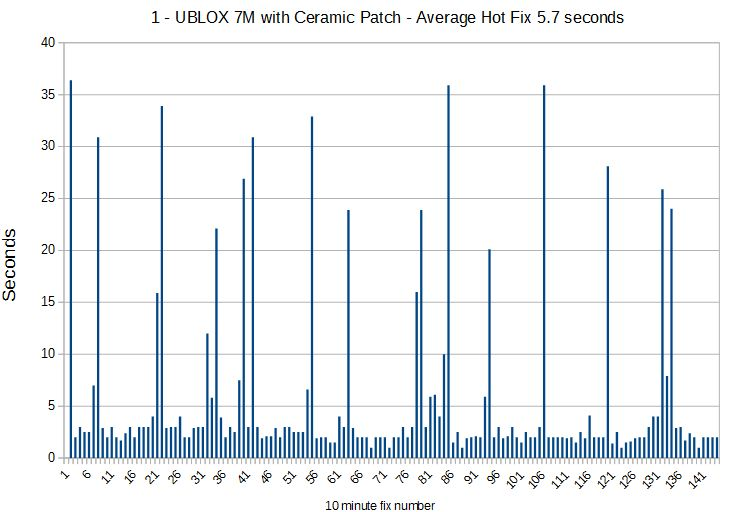
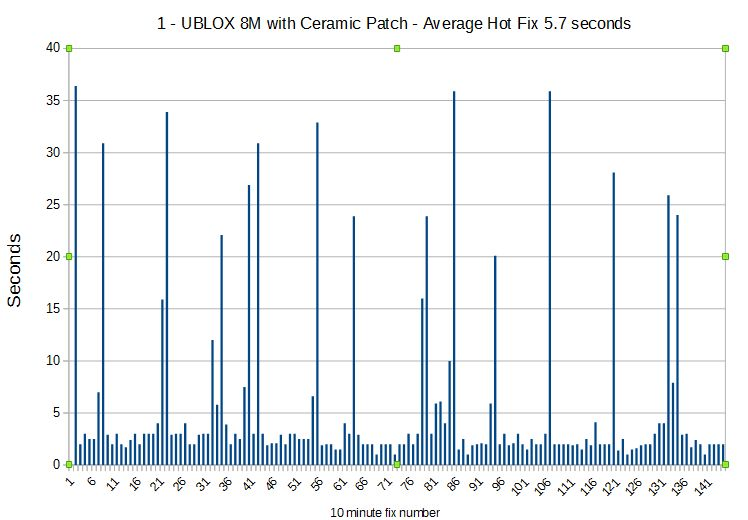
Changes to 8M fix graph

Changed region(s): [[0.0601, 0.0, 0.9918, 0.9688], [0.4208, 0.9688, 0.6011, 1.0], [0.0, 0.4375, 0.0301, 0.5938]]

diff --git a/GPS performance comparisons/Readme.md b/GPS performance comparisons/Readme.md
@@ -178,7 +178,7 @@ Often used on quad copters and similar.
 
 <br><br>
 
-#### 2 - 8 GPS Ceramic Patch
+#### 2 - UBLOX 7 GPS - Ceramic Patch
 * With 25mm ceramic patch antenna. 
 * Fix time from cold, 35 seconds.
 * Current whilst acquiring fix, 50mA to 54mA.
@@ -478,7 +478,7 @@ The Quectel L76 has a built in LNA and so should cope well with a simple wire an
 
 ![alt-text-1](Pictures/13_wire.jpg "Wire Antenna") ![alt-text-2](Pictures/13_patch.jpg "patch Antenna")
 
-
+<br><br>
 
 ### GPS Performance Tests - Summary 
 
@@ -490,13 +490,16 @@ The Quectel L80 is physically a similar GPS to the SAM M8Q, has a very good perf
 
 The bare bones L70 module (i.e. it comes with no antenna) is worthy of note, it's the same size and pin layout as the equivalent UBLOX MAXM8Q module but has a far better signal performance and a very low current consumption. The L70 has a high altitude balloon mode, and is easy to find as a bare module. I recently bought 5 off for £3.50 each delivered. Under the same signal conditions as the UBLOX MAX M8Q the L70 with a simple wire antenna behaved like a standard GPS with ceramic patch antenna; a cold fix time of 32 seconds whilst the UBLOX MAX M8Q took 5 minutes or more. 
 
-The Quectel L76 and L86 are pin compatible with the L70 and L80 respectively and whilst they add multi GNNS capability they are slighgtly more expensive and use more power. Both these GPSs have a high altitude balloon mode.   
+The Quectel L76 and L86 are pin compatible with the L70 and L80 respectively and whilst they add multi GNNS capability they are slightly more expensive and use more power. Both these GPSs have a high altitude balloon mode.   
 
 It should be noted that over a long period hot fix times are in the 10 second average range for most GPSs, this is far more than the often quoted headline figures of 2 - 5 seconds. It can be seen from the graphs that there are occasional fixes that take 30 seconds or more. These long fix times are required to download ephemeris data from new satellites that come into view. The detail of this data is constantly changing so you cannot store it long term.  
 
 It also need to be appreciated just how much power a GPS based project actually uses. Even for the low power UBLOX SAM8Q and Quectels, the GPS was consuming more than 85% of the projects power, the rest being used for the LoRa transmissions. 
 
 With the GPS consuming so much of a projects current it is clear that the trackers sleep current is of very little consequence, even at a 'high' level of 5uA, which is easy to achieve with standard Arduino parts, the sleep current is only 1% of the total project current.   
+
+This report notes the importance of having access to the Vbackup pin on the GPS for long term tracker use. There is one GPS module available that provides access to this pin, the [Adafruit Ultimate GPS](https://www.adafruit.com/product/746). I have not tested this GPS, cost is £37, but it should have a similar performance to no. 9 in this report.
+
 
 <br><br>
 
